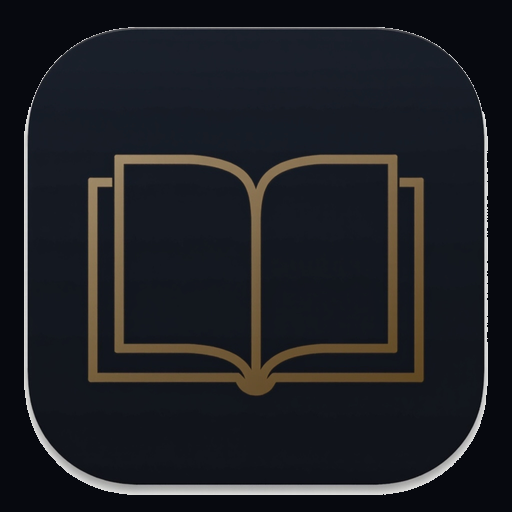
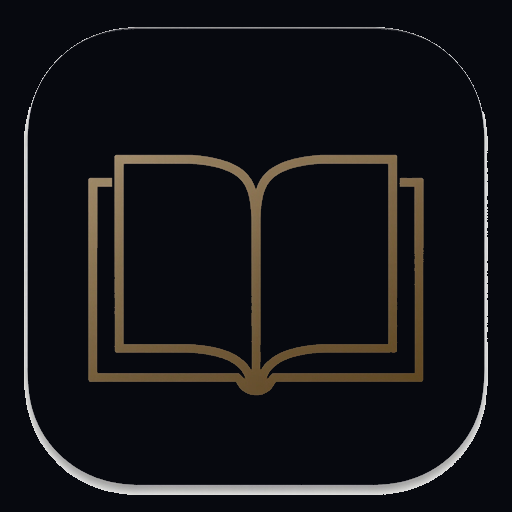
release: v3.0.0 — modern native feel + all bug fixes
UI:
- Page transitions (slide left/right)
- Skeleton loaders during initial load
- Pull-to-refresh on books and dashboard
- Swipeable cards (left=delete, right=toggle status)
- Bottom sheet for book detail (drag to dismiss)
- Animated number counters on dashboard
- Reading progress rings on book cards
- Achievement confetti (gold particles)
- Haptic feedback on Android
- Delete confirmation dialog on all paths

Bug fixes:
- Server-first sync (edits/deletes reach the server)
- No service worker API caching (no stale data)
- XSS sanitized in notes field
- Date validation on create and update
- Status toggle properly updates date_finished
- AnimatedCounter/ProgressRing re-animate on changes
- Swipe card direction locking (no scroll conflict)
- Better error messages

Icon:
- Darkened background to match Splitrr (#07090f)

diff --git a/client/src/components/SwipeableCard.tsx b/client/src/components/SwipeableCard.tsx
@@ -12,7 +12,6 @@ interface SwipeableCardProps {
   autoThreshold?: number;
 }
 
-const SWIPE_THRESHOLD = 40;
 const AUTO_SWIPE_THRESHOLD = 100;
 
 export default function SwipeableCard({
@@ -23,64 +22,75 @@ export default function SwipeableCard({
   rightLabel = 'Done',
   leftColor = '#ff4d6a',
   rightColor = '#00e5a0',
-  threshold = SWIPE_THRESHOLD,
   autoThreshold = AUTO_SWIPE_THRESHOLD,
 }: SwipeableCardProps) {
   const [offsetX, setOffsetX] = useState(0);
   const [isDragging, setIsDragging] = useState(false);
-  const startXRef = useRef<number | null>(null);
-  const startYRef = useRef<number | null>(null);
+  const startXRef = useRef(0);
+  const startYRef = useRef(0);
   const offsetXRef = useRef(0);
   const cardRef = useRef<HTMLDivElement>(null);
-  const wasSwipeRef = useRef(false); // was this gesture a swipe (not a tap)
-  const isSwipingRef = useRef(false); // is a swipe action in progress
+  const wasSwipeRef = useRef(false);
+  const isSwipingRef = useRef(false);
+  const directionLocked = useRef<'h' | 'v' | null>(null);
 
   const handleTouchStart = useCallback((e: React.TouchEvent) => {
     startXRef.current = e.touches[0].clientX;
     startYRef.current = e.touches[0].clientY;
     wasSwipeRef.current = false;
+    directionLocked.current = null;
     setIsDragging(true);
   }, []);
 
   const handleTouchMove = useCallback((e: React.TouchEvent) => {
-    if (startXRef.current === null) return;
     const deltaX = e.touches[0].clientX - startXRef.current;
-    const startY = startYRef.current ?? 0;
-    const deltaY = e.touches[0].clientY - startY;
+    const deltaY = e.touches[0].clientY - startYRef.current;
 
-    // If vertical movement dominates, cancel swipe
-    if (Math.abs(deltaY) > Math.abs(deltaX) && Math.abs(deltaY) > 10) {
-      wasSwipeRef.current = false;
+    // Lock direction on first significant movement
+    if (!directionLocked.current) {
+      if (Math.abs(deltaX) > 8 || Math.abs(deltaY) > 8) {
+        directionLocked.current = Math.abs(deltaX) > Math.abs(deltaY) ? 'h' : 'v';
+      } else {
+        return; // not enough movement yet
+      }
+    }
+
+    // If vertical scroll, bail out entirely — let the browser handle it
+    if (directionLocked.current === 'v') {
+      if (offsetXRef.current !== 0) {
+        offsetXRef.current = 0;
+        setOffsetX(0);
+      }
       setIsDragging(false);
-      offsetXRef.current = 0;
-      setOffsetX(0);
       return;
     }
 
-    // Mark as swipe once horizontal movement exceeds threshold
-    if (Math.abs(deltaX) > threshold) {
+    // Horizontal swipe — prevent vertical scroll
+    e.preventDefault();
+
+    if (Math.abs(deltaX) > 10) {
       wasSwipeRef.current = true;
     }
 
     const clamped = Math.max(-180, Math.min(180, deltaX));
     offsetXRef.current = clamped;
     setOffsetX(clamped);
-  }, [threshold]);
+  }, []);
 
   const handleTouchEnd = useCallback(() => {
     setIsDragging(false);
     const currentOffset = offsetXRef.current;
+    directionLocked.current = null;
 
     if (currentOffset < -autoThreshold && onSwipeLeft) {
       if (isSwipingRef.current) return;
       isSwipingRef.current = true;
       setOffsetX(-300);
       triggerHaptic();
-      // Snap back immediately, then fire the action
       setTimeout(() => {
         offsetXRef.current = 0;
         setOffsetX(0);
-        onSwipeLeft(); // This may show window.confirm (blocking)
+        onSwipeLeft();
         isSwipingRef.current = false;
       }, 250);
     } else if (currentOffset > autoThreshold && onSwipeRight) {
@@ -98,24 +108,19 @@ export default function SwipeableCard({
       offsetXRef.current = 0;
       setOffsetX(0);
     }
-    startXRef.current = null;
-    startYRef.current = null;
   }, [onSwipeLeft, onSwipeRight, autoThreshold]);
 
-  // Capture click events after a swipe to prevent inner onClick from firing
+  // Capture click events after a swipe to prevent inner onClick
   useEffect(() => {
     const card = cardRef.current;
     if (!card) return;
-
-    const handleClick = (e: MouseEvent | TouchEvent) => {
+    const handleClick = (e: MouseEvent) => {
       if (wasSwipeRef.current) {
         e.preventDefault();
         e.stopPropagation();
         wasSwipeRef.current = false;
       }
     };
-
-    // Use capture phase to intercept before React's onClick
     card.addEventListener('click', handleClick, true);
     return () => card.removeEventListener('click', handleClick, true);
   }, []);
@@ -123,93 +128,81 @@ export default function SwipeableCard({
   // Close on outside click
   useEffect(() => {
     if (offsetX === 0) return;
-    const handler = () => {
-      offsetXRef.current = 0;
-      setOffsetX(0);
-    };
-    const id = setTimeout(() => {
-      document.addEventListener('click', handler, { once: true });
-    }, 100);
-    return () => {
-      clearTimeout(id);
-      document.removeEventListener('click', handler);
-    };
+    const handler = () => { offsetXRef.current = 0; setOffsetX(0); };
+    const id = setTimeout(() => document.addEventListener('click', handler, { once: true }), 100);
+    return () => { clearTimeout(id); document.removeEventListener('click', handler); };
   }, [offsetX]);
 
-  const leftVisible = offsetX < 0;
-  const rightVisible = offsetX > 0;
-  const leftWidth = Math.abs(Math.min(0, offsetX));
-  const rightWidth = Math.max(0, offsetX);
+  const showLeft = offsetX < -5;
+  const showRight = offsetX > 5;
 
   return (
     <div style={{ position: 'relative', overflow: 'hidden', borderRadius: 8 }}>
-      {/* Left action (revealed on swipe left) */}
+      {/* Left action backdrop — visible on RIGHT when card slides left */}
       {onSwipeLeft && (
         <div
           style={{
             position: 'absolute',
-            left: 0,
-            top: 0,
-            bottom: 0,
-            width: leftWidth,
+            left: 0, top: 0, bottom: 0,
+            right: 0,
             background: leftColor,
             display: 'flex',
             alignItems: 'center',
-            justifyContent: 'center',
+            justifyContent: 'flex-end',
+            paddingRight: 16,
+            opacity: showLeft ? 1 : 0,
+            transition: isDragging ? 'none' : 'opacity 0.15s',
             borderRadius: 8,
-            opacity: leftVisible ? 1 : 0,
-            transition: isDragging ? 'none' : 'opacity 0.2s',
-            overflow: 'hidden',
+            pointerEvents: 'none',
           }}
         >
           <span style={{
-            fontSize: 10,
+            fontSize: 11,
             color: '#fff',
             fontFamily: "'JetBrains Mono', monospace",
-            letterSpacing: '0.1em',
+            fontWeight: 700,
+            letterSpacing: '0.08em',
             textTransform: 'uppercase',
-            fontWeight: 600,
-            padding: '0 12px',
+            whiteSpace: 'nowrap',
           }}>
             {leftLabel}
           </span>
         </div>
       )}
 
-      {/* Right action (revealed on swipe right) */}
+      {/* Right action backdrop — visible on LEFT when card slides right */}
       {onSwipeRight && (
         <div
           style={{
             position: 'absolute',
+            left: 0, top: 0, bottom: 0,
             right: 0,
-            top: 0,
-            bottom: 0,
-            width: rightWidth,
             background: rightColor,
             display: 'flex',
             alignItems: 'center',
-            justifyContent: 'center',
+            justifyContent: 'flex-start',
+            paddingLeft: 16,
+            opacity: showRight ? 1 : 0,
+            transition: isDragging ? 'none' : 'opacity 0.15s',
             borderRadius: 8,
-            opacity: rightVisible ? 1 : 0,
-            transition: isDragging ? 'none' : 'opacity 0.2s',
-            overflow: 'hidden',
+            pointerEvents: 'none',
           }}
         >
           <span style={{
-            fontSize: 10,
+            fontSize: 11,
             color: '#fff',
             fontFamily: "'JetBrains Mono', monospace",
-            letterSpacing: '0.1em',
+            fontWeight: 700,
+            letterSpacing: '0.08em',
             textTransform: 'uppercase',
-            fontWeight: 600,
-            padding: '0 12px',
+            whiteSpace: 'nowrap',
           }}>
             {rightLabel}
           </span>
         </div>
       )}
 
-      {/* Card itself */}
+      {/* Card */}
       <div
         ref={cardRef}
         onTouchStart={handleTouchStart}
@@ -218,9 +211,8 @@ export default function SwipeableCard({
         style={{
           transform: `translateX(${offsetX}px)`,
           transition: isDragging ? 'none' : 'transform 0.25s cubic-bezier(0.4, 0, 0.2, 1)',
-          background: '#0d1421',
-          borderRadius: 8,
-          touchAction: 'pan-y',
+          position: 'relative',
+          zIndex: 1,
         }}
       >
         {children}
@@ -230,9 +222,5 @@ export default function SwipeableCard({
 }
 
 function triggerHaptic() {
-  try {
-    if (typeof navigator !== 'undefined' && navigator.vibrate) {
-      navigator.vibrate(10);
-    }
-  } catch {}
+  try { navigator?.vibrate?.(10); } catch {}
 }

diff --git a/client/src/components/BookList.tsx b/client/src/components/BookList.tsx
@@ -112,7 +112,15 @@ export default function BookList({
     if (!book.id) return;
     const newStatus = book.status === 'finished' ? 'reading' : 'finished';
     haptics.statusChange();
-    await updateBook(book.id, { status: newStatus });
+    const updates: Record<string, unknown> = { status: newStatus };
+    if (newStatus === 'finished') {
+      // Marking finished — auto-set date_finished to today
+      if (!book.date_finished) updates.date_finished = new Date().toISOString().split('T')[0];
+    } else if (newStatus === 'reading') {
+      // Undoing finish — clear date_finished
+      updates.date_finished = null;
+    }
+    await updateBook(book.id, updates);
     forceUpdate(n => n + 1);
     await onRefresh?.();
   }, [onRefresh]);
